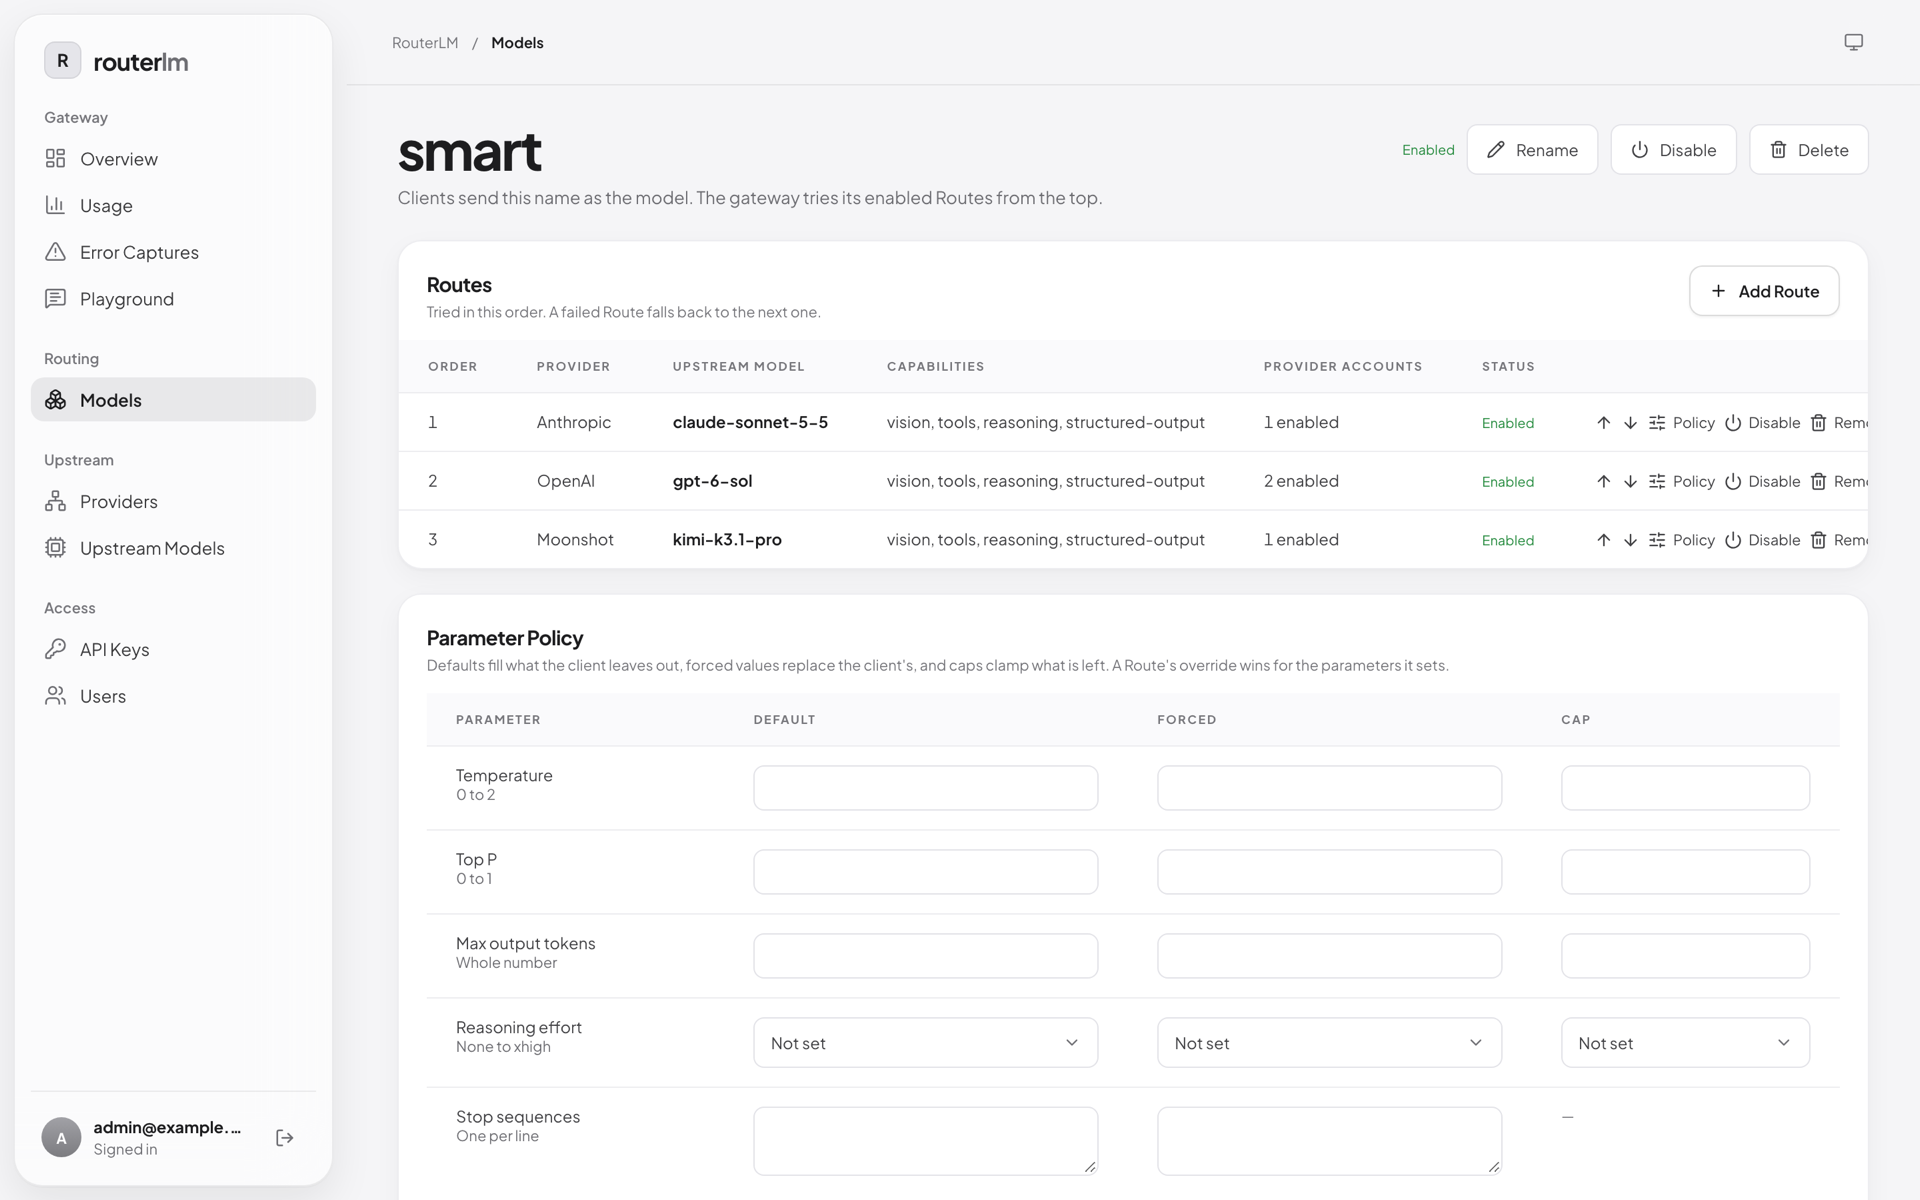
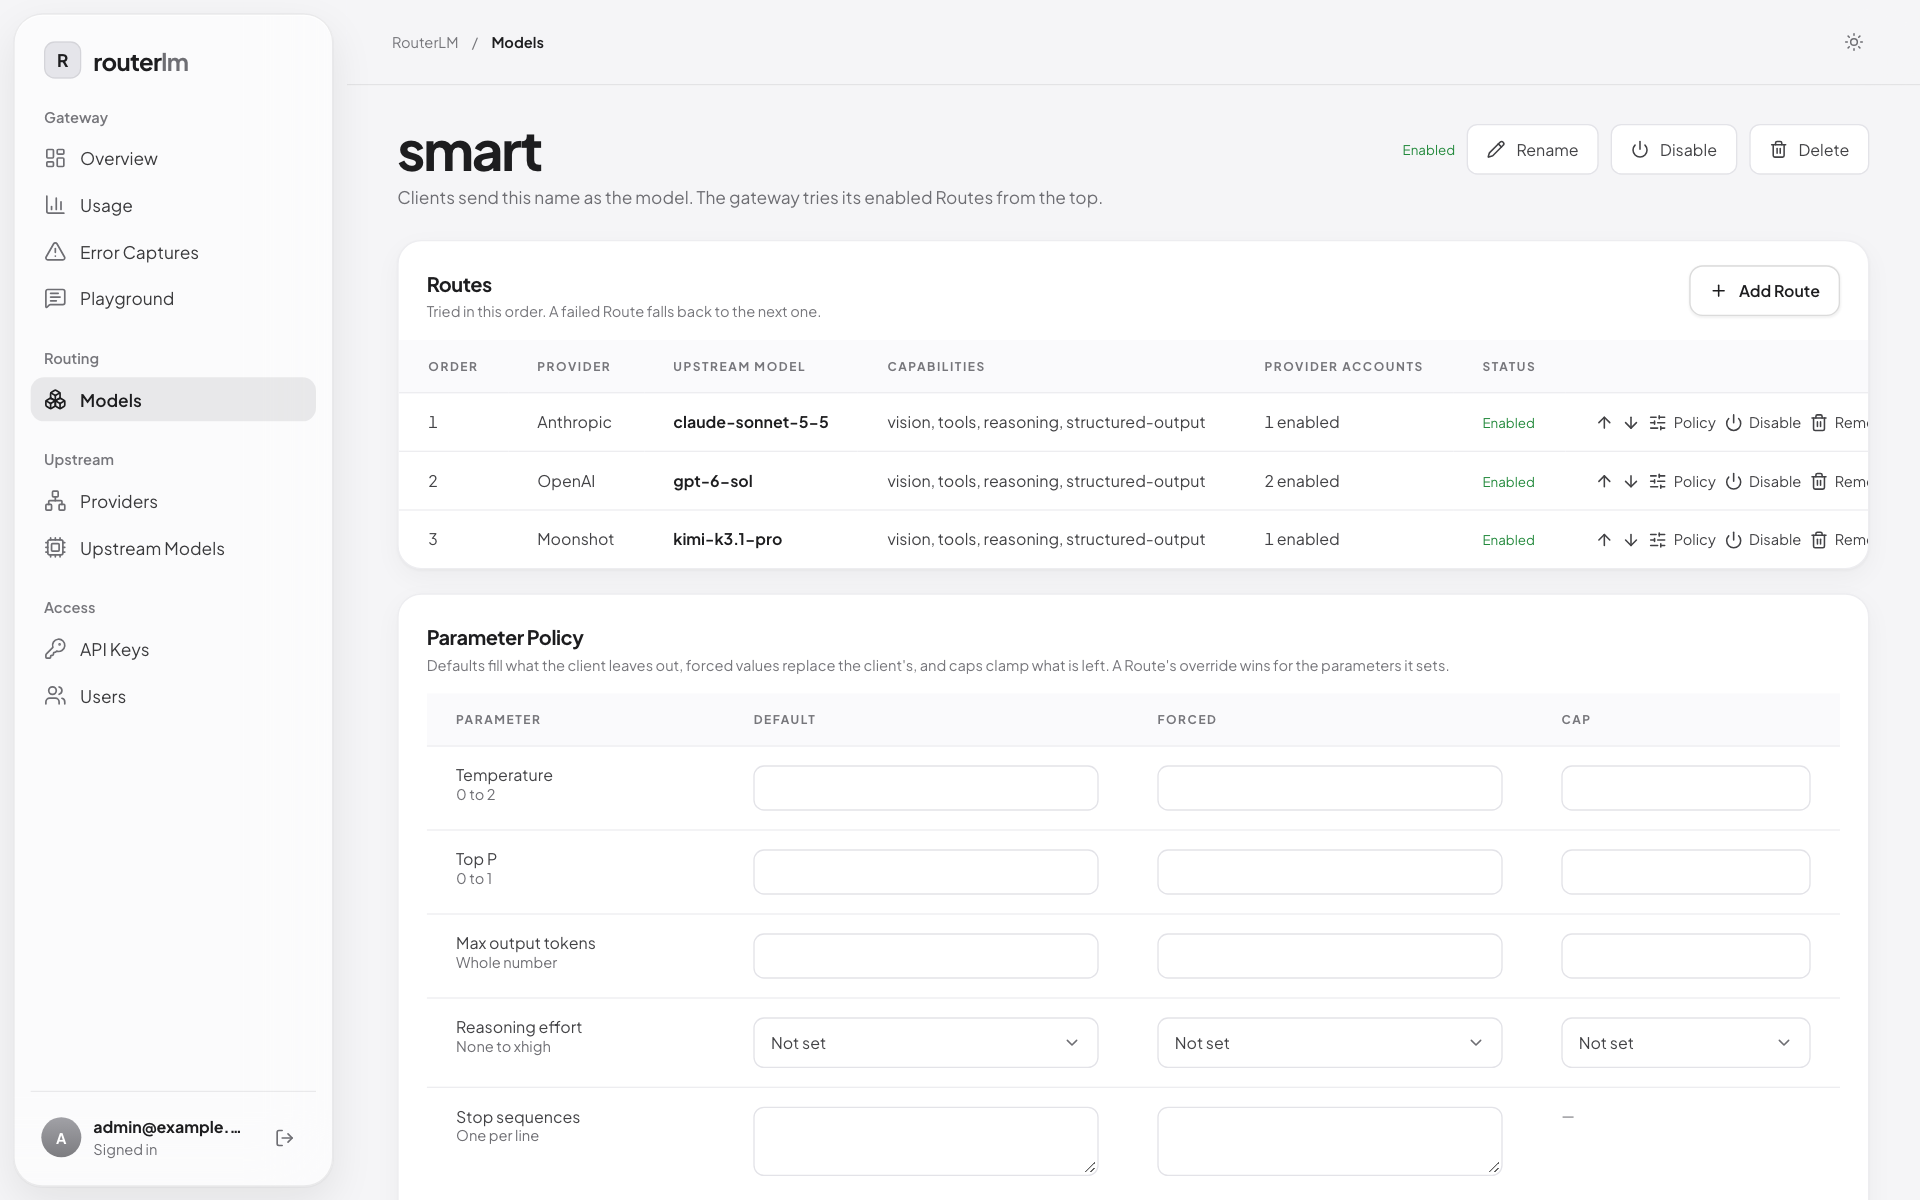
docs: show light and dark screenshots side by side, add client docs

diff --git a/README.md b/README.md
@@ -10,10 +10,10 @@
   <a href="https://github.com/yhagus/routerlm-oss/actions/workflows/ci.yml"><img alt="CI" src="https://github.com/yhagus/routerlm-oss/actions/workflows/ci.yml/badge.svg" /></a>
 </p>
 
-<picture>
-  <source media="(prefers-color-scheme: dark)" srcset="docs/images/overview-dark.png" />
-  <img alt="RouterLM overview: requests, cost, cache hit rate and error rate over the last 7 days" src="docs/images/overview.png" />
-</picture>
+<p align="center">
+  <img alt="RouterLM overview: requests, cost, cache hit rate and error rate over the last 7 days, light theme" src="docs/images/overview.png" width="49%" />
+  <img alt="RouterLM overview: requests, cost, cache hit rate and error rate over the last 7 days, dark theme" src="docs/images/overview-dark.png" width="49%" />
+</p>
 
 ## Why RouterLM
 
@@ -33,27 +33,48 @@ Clients call `/v1/chat/completions`, `/v1/messages` or `/v1/responses`. RouterLM
 
 ### Models and Routes
 
-![The "smart" Model with three Routes: Anthropic, OpenAI and Moonshot](docs/images/model.png)
+<p align="center">
+  <img alt="The &quot;smart&quot; Model with three Routes: Anthropic, OpenAI and Moonshot, light theme" src="docs/images/model.png" width="49%" />
+  <img alt="The &quot;smart&quot; Model with three Routes: Anthropic, OpenAI and Moonshot, dark theme" src="docs/images/model-dark.png" width="49%" />
+</p>
 
 A Model is the name clients send. RouterLM tries its Routes from the top. Each Model has a Parameter Policy: defaults, forced values, caps and a system prompt. A Route can override that policy. Routes also have their own timeouts, and Models can set automatic prompt cache breakpoints.
 
 ### Providers from the Catalog
 
-![Providers page with logos, account readiness and model counts](docs/images/providers.png)
+<p align="center">
+  <img alt="Providers page with logos, account readiness and model counts, light theme" src="docs/images/providers.png" width="49%" />
+  <img alt="Providers page with logos, account readiness and model counts, dark theme" src="docs/images/providers-dark.png" width="49%" />
+</p>
 
 The Catalog ships Alibaba Model Studio Intl, Anthropic, DeepSeek, Kimi Code, MiniMax API, MiniMax M Plan, Moonshot, OpenAI and Xiaomi MiMo. Each entry has context sizes, capabilities, prices and release dates. Add a key to start using a Provider. You can add any other OpenAI- or Anthropic-compatible service by hand. Kimi Code also supports "Sign in with Kimi", and RouterLM keeps that login valid on its own.
 
 ### Usage you can search
 
-![Usage page with totals, filters and a per-request table](docs/images/usage.png)
+<p align="center">
+  <img alt="Usage page with totals, filters and a per-request table, light theme" src="docs/images/usage.png" width="49%" />
+  <img alt="Usage page with totals, filters and a per-request table, dark theme" src="docs/images/usage-dark.png" width="49%" />
+</p>
 
 Every request is a Usage Log with its Attempts. Filter by Model, API Key or status, search by text, and keep the view in the URL to share it.
 
 ### Playground
 
-![Playground showing the Routes of the "coder" Model](docs/images/playground.png)
+<p align="center">
+  <img alt="Playground showing the Routes of the &quot;coder&quot; Model, light theme" src="docs/images/playground.png" width="49%" />
+  <img alt="Playground showing the Routes of the &quot;coder&quot; Model, dark theme" src="docs/images/playground-dark.png" width="49%" />
+</p>
 
 Send a request through a Model exactly as a client would, or straight to one upstream model, and copy the matching code snippet.
+
+### Client docs
+
+<p align="center">
+  <img alt="The Chat Completions page of the client docs, light theme" src="docs/images/docs.png" width="49%" />
+  <img alt="The Chat Completions page of the client docs, dark theme" src="docs/images/docs-dark.png" width="49%" />
+</p>
+
+The web app serves public client documentation at `/docs` (English) and `/id/docs` (Indonesian), with no sign-in. Each page covers one endpoint with copyable curl and TypeScript requests that use your gateway's URL, and the docs are searchable with ⌘K.
 
 ## Quick start
 
@@ -155,6 +176,17 @@ The Catalog is one JSON file per Provider in `src/catalog/data/`. The seeder onl
 - Put those page URLs and the date you read them in `source`.
 - Use `null` for a value the Provider doesn't publish. Never estimate one.
 - `src/catalog/schemas/catalog.schema.ts` defines the file shape. `tests/catalog/` checks every shipped file.
+
+### Demo data for screenshots
+
+`bun run db:seed:demo` fills a database with a fictional install (Provider Accounts with fake keys, Models, API Keys and a week of traffic) for re-capturing the dashboard screenshots. It truncates every table first, so it only runs when the database name ends in `_demo`. Create and fill one, then point the stack at it and sign in as `admin@example.com` / `routerlm-demo`:
+
+```bash
+docker compose exec db createdb -U routerlm routerlm_demo
+docker compose exec -e DATABASE_URL=postgres://routerlm:routerlm@db:5432/routerlm_demo backend bun run db:migrate
+docker compose exec -e DATABASE_URL=postgres://routerlm:routerlm@db:5432/routerlm_demo backend bun run db:seed:demo
+POSTGRES_DB=routerlm_demo docker compose up -d
+```
 
 ### Project conventions
 
